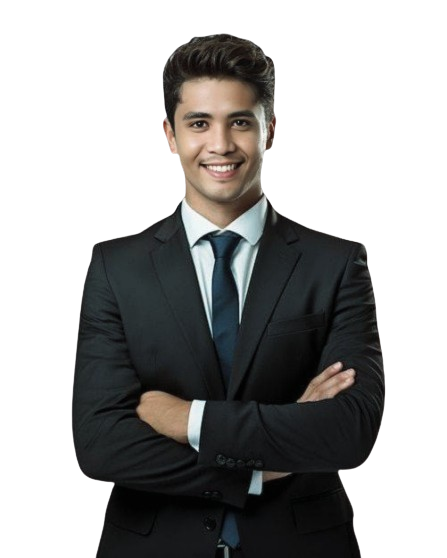
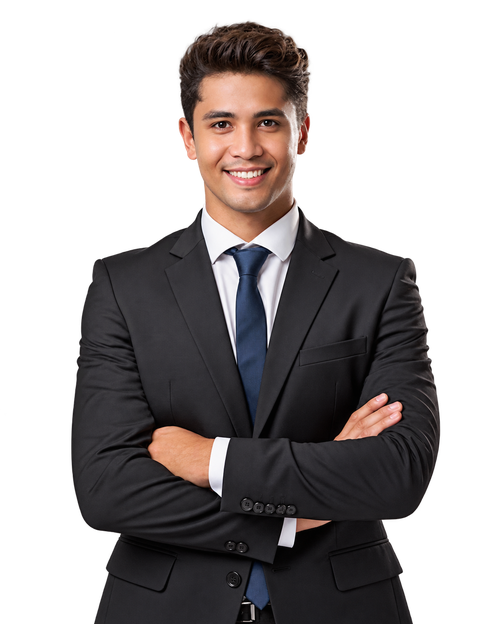
feat: add transparent-background team portraits with flippable cards
- Replace circular team photos with transparent-background PNG portraits
- Rename image files to lowercase-no-space convention
- Move Clayton's photo to team folder (was in branding folder)
- Optimize images: resize to 500px max, compress PNGs (1.5MB -> 200-310KB each)
- Update Teams.tsx image paths to reference new .png files
- Implement CSS3D flippable team member cards:
  - Front: portrait with subtle bottom gradient shadow
  - Back: name, role, bio, LinkedIn link
  - Hover flip effect with perspective transform
  - Border and broader drop shadow on cards
- Add CSS classes (.perspective, .flip-card-inner, .flip-card-front,
  .flip-card-back, .backface-hidden) in index.css
- Add Tailwind safelist entries and flip animation keyframes
- Update Seo.tsx description to reflect Jhed's Lead Developer role

diff --git a/client/src/pages/Teams.tsx b/client/src/pages/Teams.tsx
@@ -14,14 +14,14 @@ const LEADERSHIP = [
     name: "Leigh Tidwell",
     role: "Chief Revenue Officer",
     bio: "Leigh leads GrowthWorks Systems' revenue initiatives across marketing, sales, and business development. She also oversees GWS sales affiliates, including training, development, and sales standards, helping ensure every revenue initiative stays focused on creating measurable value and sustainable growth for our clients.",
-    image: "/assets/images/team/leigh-tidwell.jpg",
+    image: "/assets/images/team/leigh-tidwell.png",
     linkedin: "https://www.linkedin.com",
   },
   {
     name: "Clayton Tidwell",
     role: "Founder",
     bio: "Three decades in operational problem solving across enterprise systems, Marine Corps leadership, and large-scale integration. Founded GrowthWorks Systems to design the complete revenue architecture that growing businesses actually need.",
-    image: "/assets/images/branding/clayton-tidwell.jpg",
+    image: "/assets/images/team/clayton-tidwell.png",
     linkedin: "https://www.linkedin.com/in/clayton-tidwell-11a2525",
   },
   {
@@ -33,8 +33,8 @@ const LEADERSHIP = [
   },
   {
     name: "Jhed Serrano",
-    role: "Team Member",
-    bio: "Part of the GrowthWorks Systems team focused on executing the firm's methodology across client engagements. Dedicated to building the systems and capabilities that create lasting revenue performance.",
+    role: "Lead Developer",
+    bio: "Lead Developer focused on building practical, scalable systems across web development, AI, automation, and platform integrations. Turns complex workflows into reliable solutions, connects tools and infrastructure, improves deployment and operational systems, and helps move projects from concept to implementation with clarity, adaptability, and technical precision.",
     image: "/assets/images/team/jhed-serrano.png",
     linkedin: "https://www.linkedin.com",
   },
@@ -107,7 +107,7 @@ function SectionLabel({ label }: { label: string }) {
   );
 }
 
-// ─── Team Member Card ────────────────────────────────────────────────────────
+// ─── Team Member Card (Flippable) ──────────────────────────────────────────────
 
 function TeamMemberCard({
   name,
@@ -128,51 +128,53 @@ function TeamMemberCard({
 
   return (
     <RevealOnScroll delay={delay}>
-      <div className="bg-white border border-gray-200 rounded-none p-7 md:p-8 flex flex-col items-center text-center h-full">
-        {/* Photo */}
-        <div className="w-28 h-28 md:w-32 md:h-32 rounded-full overflow-hidden border-2 border-gray-100 mb-5 shrink-0 bg-[#F2E7E3]">
-          {!imgError ? (
-            <img
-              src={image}
-              alt={`${name} — ${role}, GrowthWorks Systems`}
-              className="w-full h-full object-cover object-top"
-              onError={() => setImgError(true)}
-            />
-          ) : (
-            <div className="w-full h-full flex items-center justify-center">
-              <span className="text-[28px] md:text-[32px] font-sans font-bold text-[#841617]">
-                {name.split(" ").map((n) => n[0]).join("").slice(0, 2)}
-              </span>
-            </div>
-          )}
+      <div className="group perspective">
+        <div className="flip-card-inner relative w-full h-[320px] md:h-[360px] border border-gray-200 rounded-none bg-white shadow-lg">
+          {/* Front face - Portrait only */}
+          <div className="flip-card-front absolute inset-0 overflow-hidden bg-[#F2E7E3]">
+            {!imgError ? (
+              <img
+                src={image}
+                alt={`${name} — ${role}, GrowthWorks Systems`}
+                className="w-full h-full object-contain object-center"
+                onError={() => setImgError(true)}
+              />
+            ) : (
+              <div className="w-full h-full flex items-center justify-center">
+                <span className="text-[28px] md:text-[32px] font-sans font-bold text-[#841617]">
+                  {name.split(" ").map((n) => n[0]).join("").slice(0, 2)}
+                </span>
+              </div>
+            )}
+            {/* Bottom gradient shadow */}
+            <div className="absolute bottom-0 left-0 right-0 h-16 bg-gradient-to-t from-black/25 via-black/10 to-transparent"></div>
+          </div>
+
+          {/* Back face - Name, Role, Bio, LinkedIn */}
+          <div className="flip-card-back absolute inset-0 [transform:rotateY(180deg)] p-7 md:p-8 flex flex-col items-center text-center">
+            <h3 className="font-serif font-normal text-gray-900 leading-[1.2] text-[22px] md:text-[24px] mb-1">
+              {name}
+            </h3>
+            <p className="text-[15px] font-sans font-semibold text-[#841617] tracking-wide uppercase mb-4">
+              {role}
+            </p>
+            <p className="text-[15px] leading-[1.7] text-gray-500 mb-6 flex-1">
+              {bio}
+            </p>
+            <a
+              href={linkedin}
+              target="_blank"
+              rel="noopener noreferrer"
+              className="inline-flex items-center gap-2 text-[14px] font-sans font-semibold text-gray-400 hover:text-[#841617] transition-colors"
+              aria-label={`${name} on LinkedIn`}
+            >
+              <svg viewBox="0 0 24 24" width="16" height="16" fill="currentColor" aria-hidden="true">
+                <path d="M20.447 20.452h-3.554v-5.569c0-1.328-.027-3.037-1.852-3.037-1.853 0-2.136 1.445-2.136 2.939v5.667H9.351V9h3.414v1.561h.046c.477-.9 1.637-1.85 3.37-1.85 3.601 0 4.267 2.37 4.267 5.455v6.286zM5.337 7.433a2.062 2.062 0 0 1-2.063-2.065 2.064 2.064 0 1 1 2.063 2.065zm1.782 13.019H3.555V9h3.564v11.452zM22.225 0H1.771C.792 0 0 .774 0 1.729v20.542C0 23.227.792 24 1.771 24h20.451C23.2 24 24 23.227 24 22.271V1.729C24 .774 23.2 0 22.222 0h.003z" />
+              </svg>
+              LinkedIn
+            </a>
+          </div>
         </div>
-
-        {/* Name & Role */}
-        <h3 className="font-serif font-normal text-gray-900 leading-[1.2] text-[22px] md:text-[24px] mb-1">
-          {name}
-        </h3>
-        <p className="text-[15px] font-sans font-semibold text-[#841617] tracking-wide uppercase mb-4">
-          {role}
-        </p>
-
-        {/* Bio */}
-        <p className="text-[15px] leading-[1.7] text-gray-500 flex-1">
-          {bio}
-        </p>
-
-        {/* LinkedIn */}
-        <a
-          href={linkedin}
-          target="_blank"
-          rel="noopener noreferrer"
-          className="inline-flex items-center gap-2 mt-5 text-[14px] font-sans font-semibold text-gray-400 hover:text-[#841617] transition-colors"
-          aria-label={`${name} on LinkedIn`}
-        >
-          <svg viewBox="0 0 24 24" width="16" height="16" fill="currentColor" aria-hidden="true">
-            <path d="M20.447 20.452h-3.554v-5.569c0-1.328-.027-3.037-1.852-3.037-1.853 0-2.136 1.445-2.136 2.939v5.667H9.351V9h3.414v1.561h.046c.477-.9 1.637-1.85 3.37-1.85 3.601 0 4.267 2.37 4.267 5.455v6.286zM5.337 7.433a2.062 2.062 0 0 1-2.063-2.065 2.064 2.064 0 1 1 2.063 2.065zm1.782 13.019H3.555V9h3.564v11.452zM22.225 0H1.771C.792 0 0 .774 0 1.729v20.542C0 23.227.792 24 1.771 24h20.451C23.2 24 24 23.227 24 22.271V1.729C24 .774 23.2 0 22.222 0h.003z" />
-          </svg>
-          LinkedIn
-        </a>
       </div>
     </RevealOnScroll>
   );

diff --git a/client/src/index.css b/client/src/index.css
@@ -2807,6 +2807,35 @@ h3 {
   animation: pulse-ring 1s ease-out;
 }
 
+/* Flip card perspective — used on Teams page */
+.perspective {
+  perspective: 1000px;
+}
+
+.backface-hidden {
+  backface-visibility: hidden;
+}
+
+/* Flippable card: default (front) state, hover (back) state */
+.flip-card-inner {
+  transition: transform 0.6s cubic-bezier(0.22, 1, 0.36, 1);
+  transform-style: preserve-3d;
+}
+
+.flip-card-inner:hover {
+  transform: rotateY(180deg);
+}
+
+.flip-card-front,
+.flip-card-back {
+  backface-visibility: hidden;
+  position: absolute;
+  inset: 0;
+  border: 1px solid #d1d5db;
+  background: white;
+  box-shadow: 0 10px 25px -5px rgba(0, 0, 0, 0.1);
+}
+
 /* Full supplied package visual blocks — package architecture, site-owned type and accessible interaction states. */
 .full-visual-kicker {
   margin: 0 0 12px;

diff --git a/client/src/components/Seo.tsx b/client/src/components/Seo.tsx
@@ -111,7 +111,7 @@ export const PAGE_SEO: Record<string, { title: string; description: string; cano
   },
   "/teams": {
     title: "Meet the Team — GrowthWorks Systems",
-    description: "The leadership team behind GrowthWorks Systems. Leigh Tidwell, Clayton Tidwell, John Baylon, and Jhed Serrano.",
+    description: "The leadership team behind GrowthWorks Systems. Leigh Tidwell (CRO), Clayton Tidwell (Founder), John Baylon (Operations Lead), and Jhed Serrano (Lead Developer).",
     canonical: "/teams",
   },
   "/privacy": {
